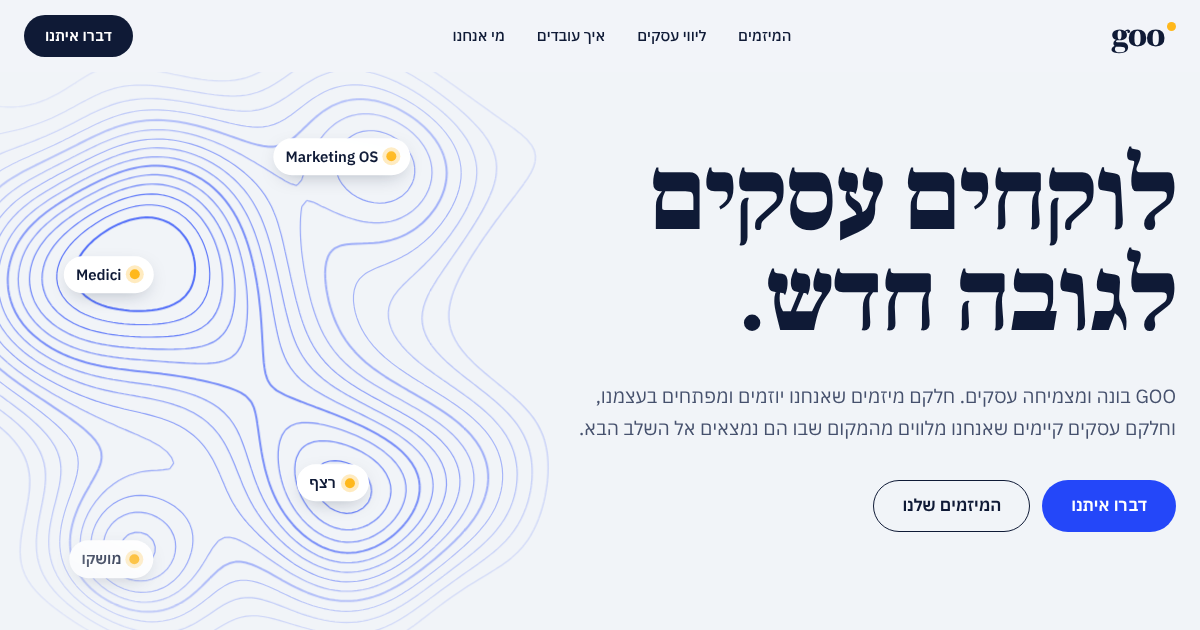
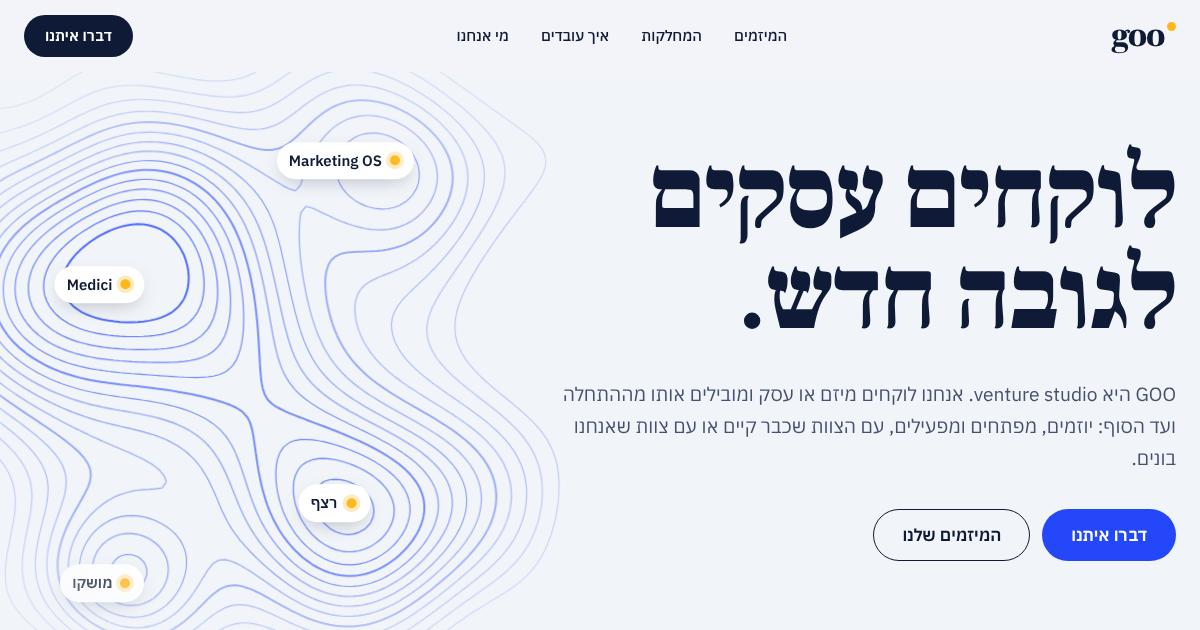
Reframe the site around end-to-end venture building
Replace the accompaniment track with the in-house departments
(development, consulting, contracting), the two team modes and a
four-step start-to-finish process.

Claude-Session: https://claude.ai/code/session_01AHsNwMYNDQcriCS2BEGq7z

diff --git a/app/page.tsx b/app/page.tsx
@@ -3,6 +3,8 @@ import {
   capabilities,
   clients,
   contact,
+  departments,
+  teamModes,
   founders,
   steps,
   ventures,
@@ -66,7 +68,7 @@ export default function Home() {
           </a>
           <nav aria-label="ניווט ראשי">
             <a href="#ventures">המיזמים</a>
-            <a href="#partners">ליווי עסקים</a>
+            <a href="#departments">המחלקות</a>
             <a href="#how">איך עובדים</a>
             <a href="#team">מי אנחנו</a>
           </nav>
@@ -104,8 +106,9 @@ export default function Home() {
               לגובה חדש.
             </h1>
             <p className="lede">
-              GOO היא venture studio. אנחנו יזמים: יוזמים, בונים ומפעילים עסקים משלנו, ומביאים את
-              אותו ניסיון לעסקים קיימים שאנחנו מלווים אל השלב הבא.
+              GOO היא venture studio. אנחנו לוקחים מיזם או עסק ומובילים אותו
+              מההתחלה ועד הסוף: יוזמים, מפתחים ומפעילים, עם הצוות שכבר קיים או
+              עם צוות שאנחנו בונים.
             </p>
             <div className="actions">
               <a className="btn btn-cobalt" href="#contact">
@@ -118,27 +121,22 @@ export default function Home() {
           </div>
         </section>
 
-        <section className="tracks wrap">
-          <h2>שתי דרכים לעלות.</h2>
-          <div className="tracks-grid">
-            <article>
-              <h3>מיזמים מהבית</h3>
-              <p>
-                אנחנו מזהים בעיה בשוק שאנחנו מכירים מבפנים, בונים לה מוצר
-                ומפעילים אותו כעסק לכל דבר. כך נולדו Medici בתיירות ורצף
-                בפיננסים.
-              </p>
-              <a href="#ventures">לכל המיזמים</a>
-            </article>
-            <article>
-              <h3>ליווי עסקים</h3>
-              <p>
-                אנחנו נכנסים לעסק קיים, לומדים איך הוא עובד באמת, ובונים יחד
-                איתו את מה שחסר כדי לגדול: מוצר, אוטומציה, שיווק ומכירות.
-              </p>
-              <a href="#partners">מה אנחנו מביאים</a>
-            </article>
+        <section className="depts wrap" id="departments">
+          <div className="section-head">
+            <h2>הכול בבית אחד.</h2>
+            <p>
+              כדי להוביל מיזם מקצה לקצה צריך יותר מקוד. לכן GOO בנויה ממחלקות
+              שעובדות יחד על אותו מיזם.
+            </p>
           </div>
+          <ul className="depts-grid">
+            {departments.map((d) => (
+              <li key={d.name}>
+                <h3>{d.name}</h3>
+                <p>{d.text}</p>
+              </li>
+            ))}
+          </ul>
         </section>
 
         <section className="ventures" id="ventures">
@@ -186,17 +184,21 @@ export default function Home() {
           </div>
         </section>
 
-        <section className="partners wrap" id="partners">
+        <section className="partners wrap" id="teams">
           <div className="partners-intro">
             <h2>
-              ליווי עסקים:
+              עם הצוות שלכם,
               <br />
-              מה אנחנו מביאים.
+              או עם צוות חדש.
             </h2>
-            <p>
-              את מה שלמדנו בבניית המיזמים שלנו אנחנו מביאים לעסקים אחרים. נכנסים
-              כשותפים לדרך, עם ידיים על המקלדת ואחריות על התוצאה.
-            </p>
+            <ul className="modes">
+              {teamModes.map((m) => (
+                <li key={m.title}>
+                  <h3>{m.title}</h3>
+                  <p>{m.text}</p>
+                </li>
+              ))}
+            </ul>
           </div>
           <dl className="caps">
             {capabilities.map((c) => (
@@ -209,7 +211,7 @@ export default function Home() {
 
           {clients.length > 0 && (
             <div className="clients">
-              <h3>עסקים שאנחנו מלווים</h3>
+              <h3>עובדים איתנו</h3>
               <ul>
                 {clients.map((c) => {
                   const inner = c.logo ? (
@@ -231,7 +233,7 @@ export default function Home() {
 
         <section className="how" id="how">
           <div className="wrap">
-            <h2>איך עובדים איתנו</h2>
+            <h2>מההתחלה ועד הסוף</h2>
             <ol>
               {steps.map((s, n) => (
                 <li key={s.title}>
@@ -263,14 +265,11 @@ export default function Home() {
           <Contours peaks={contactPeaks} levels={12} className="on-cobalt" />
           <div className="wrap contact-inner">
             <h2>
-              יש לכם עסק שמוכן
+              יש לכם עסק
               <br />
-              לשלב הבא?
+              או רעיון למיזם?
             </h2>
-            <p>
-              ספרו לנו איפה אתם היום ולאן אתם רוצים להגיע. נחזור אליכם עם צעד
-              ראשון.
-            </p>
+            <p>ספרו לנו מה אתם רוצים לבנות. נחזור אליכם עם הצעה איך לוקחים את זה מכאן ועד הסוף.</p>
             {hasContact ? (
               <div className="actions">
                 {contact.whatsapp && (

diff --git a/content/site.ts b/content/site.ts
@@ -59,10 +59,36 @@ export const ventures: Venture[] = [
   },
 ];
 
-// לקוחות בליווי. להוסיף רק לקוחות שאישרו הצגה.
+// לקוחות ושותפים. להוסיף רק מי שאישר הצגה.
 // logo: נתיב לקובץ בתיקיית public, למשל '/clients/acme.svg'. בלי לוגו יוצג השם.
 export type Client = { name: string; logo?: string; url?: string };
 export const clients: Client[] = [];
+
+export const departments = [
+  {
+    name: 'פיתוח',
+    text: 'צוות מוצר והנדסה שבונה את המערכת עצמה: אפיון, עיצוב, קוד, סוכני AI וחיבורים למערכות קיימות.',
+  },
+  {
+    name: 'ייעוץ',
+    text: 'אסטרטגיה עסקית, תהליכים פיננסיים, שיווק ומכירות. מגדירים לאן העסק הולך ומה צריך לקרות כדי להגיע לשם.',
+  },
+  {
+    name: 'קונטרקטינג',
+    text: 'אנשי מקצוע שנכנסים לעבוד בתוך המיזם, לצד הצוות הקיים או כגרעין של צוות חדש.',
+  },
+];
+
+export const teamModes = [
+  {
+    title: 'עם הצוות שכבר קיים',
+    text: 'נכנסים לעסק פעיל, עובדים יחד עם האנשים שמכירים אותו הכי טוב, ומוסיפים את מה שחסר כדי להתקדם.',
+  },
+  {
+    title: 'עם צוות שאנחנו בונים',
+    text: 'כשאין עדיין צוות, אנחנו מקימים אותו: מגדירים תפקידים, מגייסים, ומובילים עד שהמיזם עומד בזכות עצמו.',
+  },
+];
 
 export const capabilities = [
   {
@@ -89,16 +115,20 @@ export const capabilities = [
 
 export const steps = [
   {
-    title: 'מבינים את העסק',
-    text: 'יושבים איתכם, לומדים איך הדברים עובדים בפועל ואיפה הם נתקעים.',
+    title: 'יוזמים ומגדירים',
+    text: 'מזהים את ההזדמנות, לומדים את השוק ואת העסק, ומגדירים מה בונים ולמה.',
   },
   {
-    title: 'מגדירים צעד ראשון',
-    text: 'בוחרים מהלך אחד ממוקד, עם תוצאה שאפשר לראות ולמדוד.',
+    title: 'בונים מוצר וצוות',
+    text: 'מפתחים את המערכת, ובמקביל מחברים את הצוות הקיים או מקימים צוות חדש.',
   },
   {
-    title: 'בונים, בודקים ומתקדמים',
-    text: 'מעלים לאוויר מוקדם, לומדים מהמשתמשים, ומשם ממשיכים לצעד הבא.',
+    title: 'מעלים לאוויר ומפעילים',
+    text: 'יוצאים לשוק מוקדם, מפעילים את העסק בפועל ולומדים מהלקוחות.',
+  },
+  {
+    title: 'מצמיחים',
+    text: 'משפרים, מרחיבים ומביאים את המיזם למקום שבו הוא עומד בזכות עצמו.',
   },
 ];
 

diff --git a/app/globals.css b/app/globals.css
@@ -340,49 +340,65 @@ a:focus-visible {
   margin-top: 36px;
 }
 
-/* שתי דרכים */
+/* מחלקות */
 
-.tracks {
+.depts {
   padding-block: var(--gap);
 }
 
-.tracks-grid {
-  margin-top: 56px;
-  display: grid;
-  grid-template-columns: 1fr 1fr;
-  border-top: 2px solid var(--ink);
-}
-
-.tracks-grid article {
-  padding-block: 36px 8px;
-  padding-inline-end: 56px;
-}
-
-.tracks-grid article + article {
-  padding-inline: 56px 0;
-  border-inline-start: 1px solid var(--mist);
-}
-
-.tracks-grid h3 {
-  font-size: clamp(26px, 2.6vw, 34px);
-}
-
-.tracks-grid p {
-  margin-top: 16px;
-  max-width: 30em;
+.depts .section-head p {
   color: var(--ink-soft);
 }
 
-.tracks-grid a {
-  display: inline-block;
-  margin-top: 24px;
-  font-weight: 600;
-  color: var(--cobalt);
-  border-bottom: 1.5px solid currentColor;
+.depts-grid {
+  margin-top: 56px;
+  display: grid;
+  grid-template-columns: repeat(3, 1fr);
+  border-top: 2px solid var(--ink);
 }
 
-.tracks-grid a:hover {
-  color: var(--ink);
+.depts-grid li {
+  padding: 36px 40px 8px;
+  border-inline-start: 1px solid var(--mist);
+}
+
+.depts-grid li:first-child {
+  padding-inline-start: 0;
+  border-inline-start: 0;
+}
+
+.depts-grid li:last-child {
+  padding-inline-end: 0;
+}
+
+.depts-grid h3 {
+  font-size: clamp(34px, 3.8vw, 52px);
+  font-weight: 900;
+}
+
+.depts-grid p {
+  margin-top: 16px;
+  color: var(--ink-soft);
+}
+
+.modes {
+  margin-top: 36px;
+  display: grid;
+  gap: 28px;
+}
+
+.modes h3 {
+  font-family: var(--body);
+  font-weight: 600;
+  font-size: 18px;
+  line-height: 1.4;
+  color: var(--cobalt);
+}
+
+.modes p {
+  margin-top: 6px;
+  max-width: 26em;
+  color: var(--ink-soft);
 }
 
 /* מיזמים */
@@ -615,8 +631,8 @@ a:focus-visible {
 .how ol {
   margin-top: 64px;
   display: grid;
-  grid-template-columns: repeat(3, 1fr);
-  gap: 40px;
+  grid-template-columns: repeat(4, 1fr);
+  gap: 32px;
 }
 
 .how li {
@@ -787,7 +803,7 @@ a:focus-visible {
     mask-image: linear-gradient(to bottom, transparent, #000 22%, #000 82%, transparent);
   }
 
-  .tracks-grid,
+  .depts-grid,
   .section-head,
   .leads,
   .partners,
@@ -796,13 +812,14 @@ a:focus-visible {
     grid-template-columns: 1fr;
   }
 
-  .tracks-grid article,
-  .tracks-grid article + article {
+  .depts-grid li,
+  .depts-grid li:first-child,
+  .depts-grid li:last-child {
     padding-inline: 0;
+    border-inline-start: 0;
   }
 
-  .tracks-grid article + article {
-    border-inline-start: 0;
+  .depts-grid li + li {
     border-top: 1px solid var(--mist);
     margin-top: 28px;
   }

diff --git a/app/layout.tsx b/app/layout.tsx
@@ -7,7 +7,7 @@ import './globals.css';
 
 const title = 'GOO | לוקחים עסקים לגובה חדש';
 const description =
-  'GOO היא venture studio: יוזמים, בונים ומפעילים עסקים משלנו, ומלווים עסקים קיימים אל השלב הבא.';
+  'GOO היא venture studio: לוקחים מיזם או עסק ומובילים אותו מההתחלה ועד הסוף, עם מחלקות פיתוח, ייעוץ וקונטרקטינג תחת קורת גג אחת.';
 
 export const metadata: Metadata = {
   metadataBase: new URL(

diff --git a/README.md b/README.md
@@ -7,7 +7,7 @@
 כל הטקסטים, המיזמים, הלקוחות ופרטי הקשר נמצאים בקובץ אחד: `content/site.ts`.
 
 - **פרטי קשר**: ממלאים `contact.whatsapp` ו-`contact.email`. כפתור מוצג רק כשיש ערך.
-- **לוגואים של לקוחות**: שמים קובץ ב-`public/clients/` ומוסיפים שורה ל-`clients`. האזור "עסקים שאנחנו מלווים" מופיע רק כשהרשימה לא ריקה.
+- **לוגואים של לקוחות**: שמים קובץ ב-`public/clients/` ומוסיפים שורה ל-`clients`. האזור "עובדים איתנו" מופיע רק כשהרשימה לא ריקה.
 - **רקע של יובל**: השדה `text` שלו ב-`founders`.
 
 ## סריקה בגוגל
